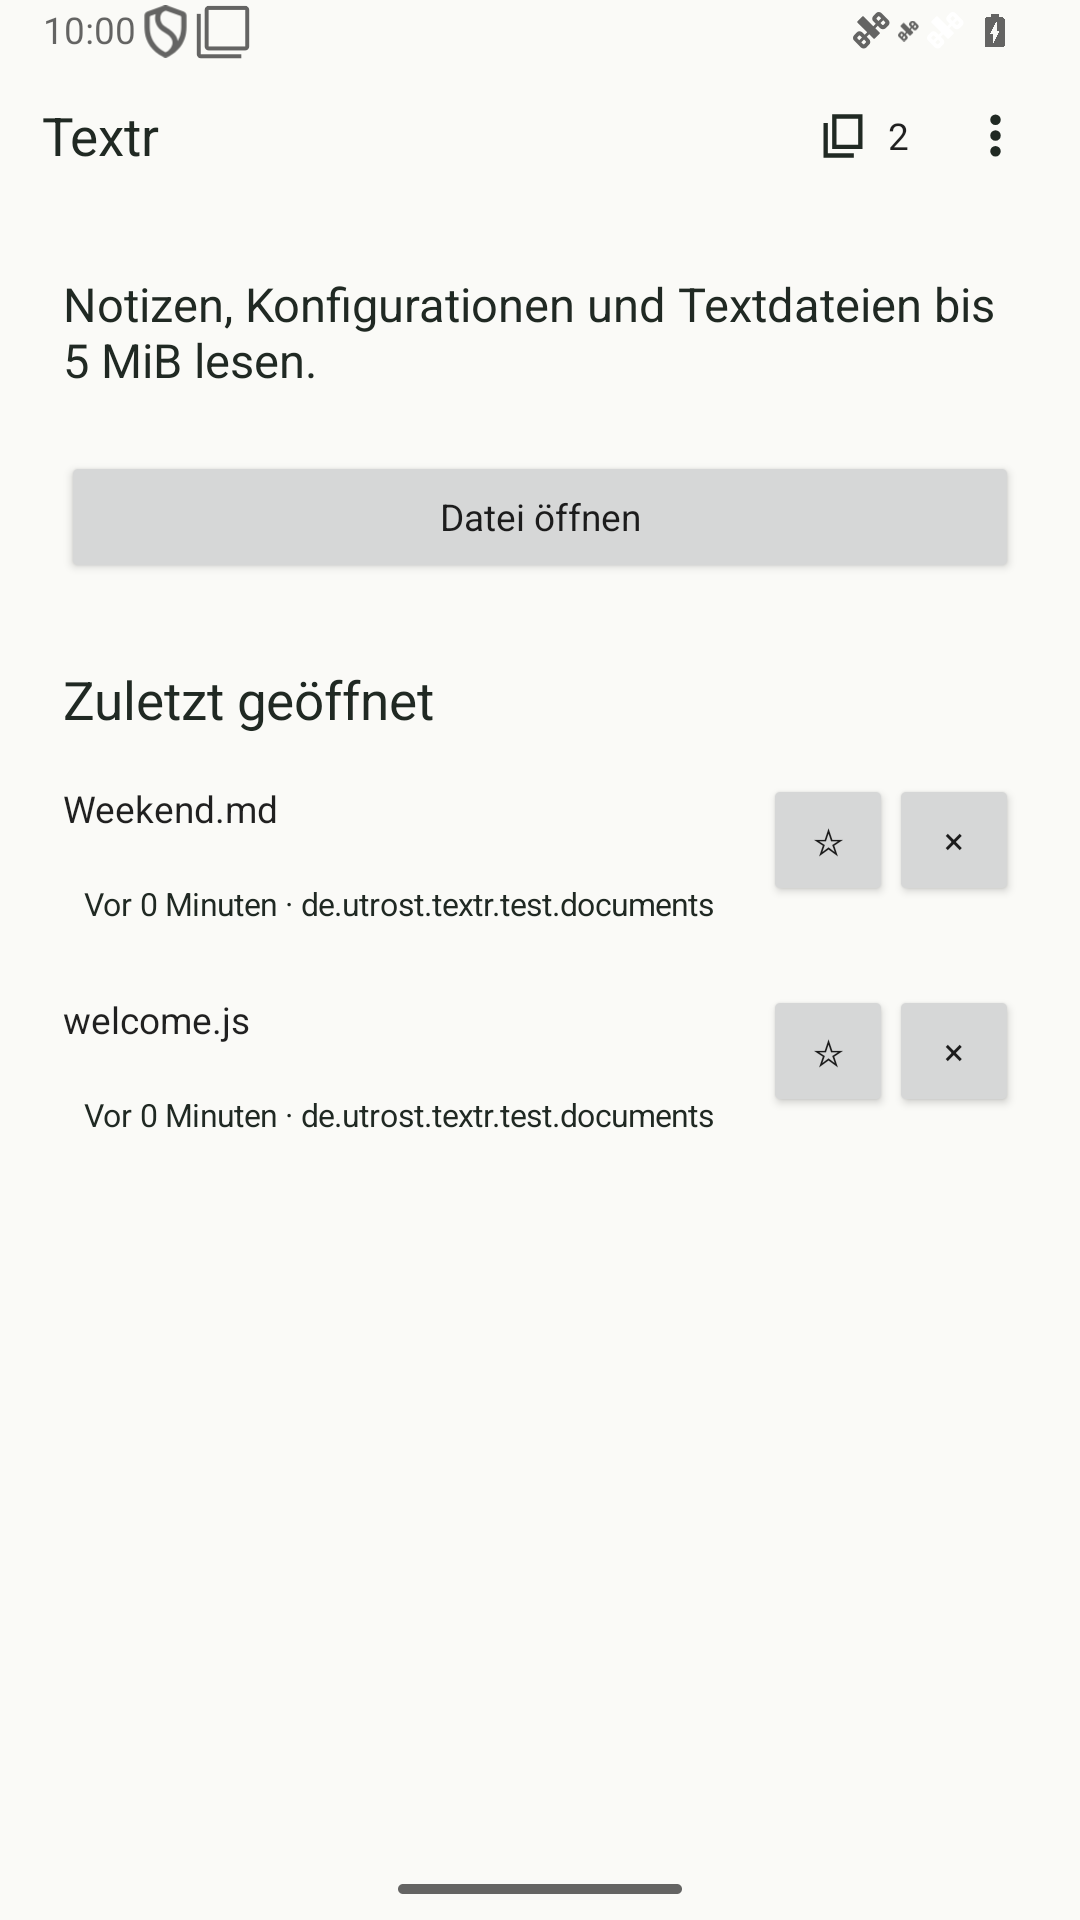
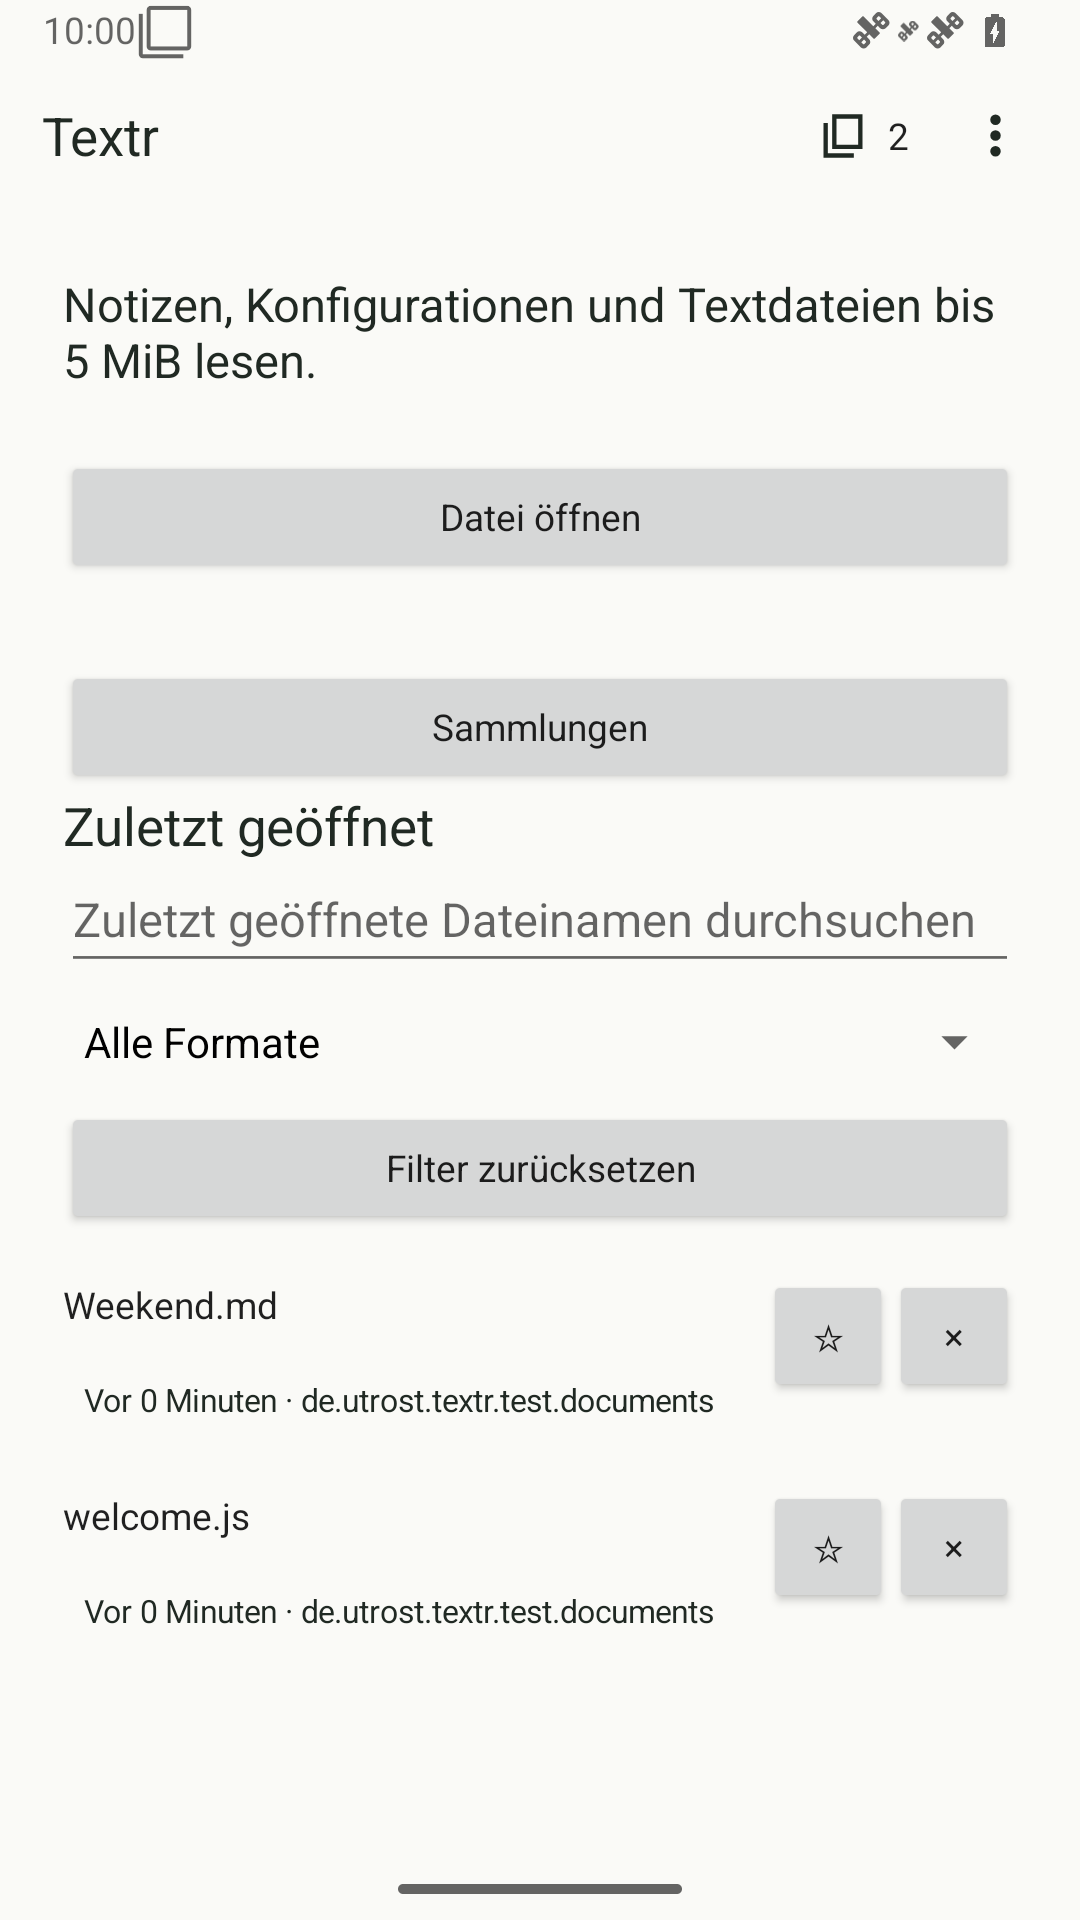
Refresh current English and German screenshots and alpha notes

diff --git a/docs/screenshots.md b/docs/screenshots.md
@@ -1,6 +1,6 @@
 # Screenshots
 
-Baseline set refreshed 20 November 2026 from the 0.2-alpha source (`e4d3ce7`), using its debug build and test fixture provider. Captured on an Android 16/API 36 emulator with WebView 133.0.6943.137, using synthetic documents only. Phone captures use 1080×1920 at 420 dpi; the wide capture uses 1600×1200 at 240 dpi. System font scale is 1.0. These are emulator screenshots, not photographs or physical Magic V6 validation. Pixels are not retouched; Android’s demo clock is used where supported.
+Refreshed 21 November 2026 from the 0.5-alpha app source (`a410407`, application tree unchanged from `d9a3e42`), using its debug build and test fixture provider. Captured on an Android 16/API 36 emulator with WebView 133.0.6943.137, using synthetic documents only. Phone captures use 1080×1920 at 420 dpi; the wide capture uses 1600×1200 at 240 dpi. System font scale is 1.0. These are emulator screenshots, not photographs or physical Magic V6 validation. Pixels are not retouched; Android’s demo clock is used where supported.
 
 | Home | Markdown | Source |
 | --- | --- | --- |
@@ -33,7 +33,7 @@ python3 scripts/capture-screenshots.py --serial EMULATOR_SERIAL --reset-app-data
 
 The explicit flag acknowledges that the script clears **Textr’s emulator app data**, sets demo display/language/theme state and installs synthetic reading preferences. It requires no release signing key and publishes nothing. Do not run it on a personal device or concurrently with instrumentation. The script restores default display size/density, app-language selection and font scale, but leaves development preferences and animations configured for capture; use a disposable emulator.
 
-The older images elsewhere in this directory remain historical documentation of earlier iterations. The `reading-*` images above are the current 0.2-alpha documentation set, including HTML reading, JSON navigation, copy editing and wide comparison. [Store artwork](store/) derives from the existing vector launcher icon and includes editable SVG sources.
+The older images elsewhere in this directory remain historical documentation of earlier iterations. The `reading-*` images above are the current 0.5-alpha documentation set, including HTML reading, JSON navigation, copy editing and wide comparison. [Store artwork](store/) derives from the existing vector launcher icon and includes editable SVG sources.
 
 ## Roadmap completion captures
 
@@ -43,7 +43,7 @@ Captured 21 November 2026 from the 0.5-alpha implementation branch on the dispos
 | --- | --- | --- |
 | ![Named collection with separate reference actions and visible Done](images/roadmap-collections.png) | ![Every JSONL line, including blank and invalid records](images/roadmap-json-lines.png) | ![Dark Markdown tasks with checked and unchecked text labels at 200%](images/roadmap-tasks-dark-large.png) |
 
-Reproduce with `RoadmapCompletionDeviceTest` on a disposable emulator. It writes `roadmap-*.png` to the target app cache using UiDevice screenshots; extract with `adb exec-out run-as de.utrost.textr cat cache/NAME.png > NAME.png`. Do not run concurrently with other instrumentation. The existing comparison image above remains the earlier side-by-side mode; the current filter/export controls are shown below.
+Reproduce with `RoadmapCompletionDeviceTest` on a disposable emulator. It writes `roadmap-*.png` to the target app cache using UiDevice screenshots; extract with `adb exec-out run-as de.utrost.textr cat cache/NAME.png > NAME.png`. Do not run concurrently with other instrumentation. The comparison image above shows the current side-by-side mode; unified filter/export controls are shown below.
 
 ![Exact comparison with independent display filters and explicit patch export](images/roadmap-comparison.png)
 

diff --git a/docs/validation-roadmap-completion.md b/docs/validation-roadmap-completion.md
@@ -15,7 +15,7 @@ Work dated 21 November 2026 on `feat/roadmap-completion`, based on merged QoL ma
 
 Disposable API 29 (`emulator-5560`) and API 36 (`emulator-5562`) emulators use synthetic documents/providers only. Heap setup follows the existing CI preparation script. The first 14 new device cases passed on both; the added original-encoding recovery case also passed. A further 200% keyboard assertion was corrected to inject an actual Android keyboard event rather than dispatching an event while remaining in touch mode; the corrected case passes on both APIs.
 
-The full API 36 suite passes **159/159** in 837.602 seconds. The full API 29 suite also passes **159/159** in 1,002.211 seconds. Added rename/reselection, 200% editor and full-visible comparison-action checks are being run against the latest build; the final suite has 160 cases. All **16 focused roadmap cases** pass on the latest API 36 build in 30.848 seconds, including these additions. Hosted checks remain linked from PR #127. No assertions were skipped or disabled.
+The full API 36 suite passes **159/159** in 837.602 seconds; API 29 passes **159/159** in 1,002.211 seconds. The expanded **16-case roadmap suite** then passes on the latest build on both APIs (API 36: 30.848 seconds; API 29: 27.710 seconds), adding rename/reselection, 200% editor actions and full-visible comparison controls. The final hosted suite has **160 cases per API**; exact-source checks are linked from PR #127. No assertions were skipped or disabled.
 
 New coverage includes editor line actions/keyboard/recreation, captured original despite provider changes, legacy recovery without baseline, encoding/BOM fidelity, draft comparison process loss, filtered-view exact patch export, cancellation/input URI protection, collection limits/persistence/grant ownership/recreation and 200% keyboard reachability, JSONL native invalid/blank navigation, saved-copy recreation and read-denied output recovery, dark/200% task semantics.
 
@@ -47,3 +47,7 @@ Dependency review: runtime dependencies are unchanged by this batch: AndroidX/Ko
 The first signed-artifact verifier run correctly refused AndroidX’s generated `DYNAMIC_RECEIVER_NOT_EXPORTED_PERMISSION`, which its initial allowlist omitted. The verifier now requires exactly that permission and Textr’s `FIND_SELECTION`, and checks that **both retain signature protection** in the compiled manifest. Signed and unsigned APK checks pass with the corrected expected manifest. No Android permission declaration was changed to satisfy verification.
 
 The first hosted build job passed compilation/unit/lint and the initial script checks, then stopped because the runner lacks `rg` in the new credential-guard step. That step now uses Python’s standard library, already required by the same job. This is a CI dependency correction; the credential refusal remains required. The failed run is retained at https://github.com/utrost/Textr/actions/runs/44950000305 .
+
+Current screenshot refresh: all 11 primary `reading-*` images were recaptured from the latest app with the committed capture script on the disposable API 36 emulator, including English/German home, German settings, editor and comparison. Inherited Fastlane home/settings screenshots were replaced with these current pixels; no screenshots were retouched. Additional collection/JSONL/task/filter screenshots come from the latest focused device cases. Both locale metadata sets pass validation.
+
+The local WebView providers are **74.0.3729.185 on API 29** and **133.0.6943.137 on API 36**, confirmed with `dumpsys webviewupdate`. Passing these suites does not represent a current-stable WebView survey or close #59.

diff --git a/docs/release-notes-0.5-alpha.md b/docs/release-notes-0.5-alpha.md
@@ -1,0 +1,26 @@
+# Textr 0.5-alpha — private testing candidate
+
+Version code **5**, Android 10/API 29 and newer, target API 36. This candidate completes the ten remaining feature/automation implementations. Private draft assets require repository write access. Public APK/store publication and production signing remain deferred; older versions stay immutable.
+
+## New behavior
+
+- Editor Go to line, selected-line indentation/unindentation and keyboard shortcuts, plus reliable **Open saved copy** after successful Save as.
+- Review the unsaved draft against its initial original snapshot. Display-only spaces/tabs and line-ending comparison filters remain separate from exact patch export.
+- Save a bounded standard UTF-8 unified diff through the system picker, with anonymous headers and explicit confirmation when filters hide differences.
+- Organize references in named collections, independently of recent history. Limits: 20 collections, 30 references each, 200 memberships total; no document contents are stored in collections.
+- Navigate JSONL/NDJSON records, including invalid and blank lines; read highlighted AsciiDoc/rST source; view checked/unchecked Markdown tasks as read-only content.
+- Prepare private drafts from an explicit tested commit with matching source, version, signature, manifest, checksums and downloaded-byte verification.
+
+Includes all eight QoL improvements from 0.4-alpha. Native controls and generated labels are English/German. See [usage and limits](roadmap.md), [validation](validation-roadmap-completion.md) and [current release assets](https://github.com/utrost/Textr/releases).
+
+## Installation and privacy
+
+A candidate signed with the same approved development identity can update earlier private alphas in place; verify `SIGNING.txt` and `SHA256SUMS`. A different signing key requires reinstalling and removes local settings, references and recovery. Save needed drafts first. The selected standard F-Droid signing channel will use F-Droid’s separate identity and cannot update these development-signed alphas in place. There is no F-Droid publication yet.
+
+Copy editing still uses one bounded private recovery file; it now also contains the initial original decoded text/encoding/BOM for comparison. Legacy recovery remains editable and clearly disables unavailable original comparison. Collections retain references/read grants independently from recent history. Patch export creates a separate user-selected output. See the [privacy policy](privacy.md); developer **utrost**, privacy/support through [public Textr issues](https://github.com/utrost/Textr/issues).
+
+## Acceptance limits
+
+Original files remain unchanged. No accounts, advertising, analytics or app network permission. JSONL/highlighting/render/editor/diff/output limits remain explicit. Patch application, in-place editing, multiple recovery drafts and direct website fetching are outside this version.
+
+Emulator and automated accessibility checks do not establish human TalkBack speech quality, physical-provider behavior or foldable acceptance (#56). The underlying intermittent WebView virtual-node investigation (#59) remains open despite the native CSV/source fallback. F-Droid eligibility/submission, Play account choices and public publication remain separate.

diff --git a/README.md b/README.md
@@ -4,7 +4,7 @@ Textr is an offline text reader and inspector for Android, with explicit editing
 
 **Android 10+ · Offline · English and German · GPL-3.0-only**
 
-**Private testing:** the current source/candidate is **0.5-alpha (code 5)**, adding editor line actions, original/draft review, comparison filters and exact patch export, collections, JSONL navigation, markup highlighting, read-only Markdown tasks and verified draft-release tools. Earlier private drafts, including 0.4-alpha, remain immutable. See [releases](https://github.com/utrost/Textr/releases) and the [roadmap](docs/roadmap.md); draft APK assets require repository write access.
+**Private testing:** the current source/candidate is **0.5-alpha (code 5)**, adding editor line actions, original/draft review, comparison filters and exact patch export, collections, JSONL navigation, markup highlighting, read-only Markdown tasks and verified draft-release tools. Earlier private drafts, including 0.4-alpha, remain immutable. See [release notes](docs/release-notes-0.5-alpha.md), [releases](https://github.com/utrost/Textr/releases) and the [roadmap](docs/roadmap.md); draft APK assets require repository write access.
 
 **Roadmap completion:** [PR #127](https://github.com/utrost/Textr/pull/127) contains the ten remaining feature/automation implementations, distribution preparation and updated documentation. See [validation](docs/validation-roadmap-completion.md) and the PR checks for exact-source evidence. The earlier eight QoL improvements are merged through [PR #126](https://github.com/utrost/Textr/pull/126). Physical-provider, human TalkBack and foldable acceptance remain open in [#56](https://github.com/utrost/Textr/issues/56), with the underlying [WebView accessibility investigation #59](https://github.com/utrost/Textr/issues/59).
 

diff --git a/docs/editing-copies.md b/docs/editing-copies.md
@@ -30,7 +30,7 @@ Verify edit/undo/redo, selection, dirty navigation, unchanged original bytes, sa
 
 **Go to line** moves only the caret, counts CR/LF/CRLF consistently and validates the requested logical line. A trailing terminator creates an empty last editor line. **Indent** adds two ASCII spaces to each selected line; **Unindent** removes one leading tab or up to two spaces. A selection ending exactly at the next line start excludes that line. Reverse selections, original endings and a single undo step are preserved; edits exceeding the existing budget are refused atomically.
 
-Keyboard shortcuts: Ctrl+Alt+G (Go to line), Ctrl+Alt+] (Indent), Ctrl+Alt+[ (Unindent), Ctrl+Alt+D (Compare original). **Compare original** reviews a captured draft without saving or changing undo history; see [comparison](comparison.md).
+The editor toolbar scrolls horizontally to reach its additional actions. Keyboard shortcuts: Ctrl+Alt+G (Go to line), Ctrl+Alt+] (Indent), Ctrl+Alt+[ (Unindent), Ctrl+Alt+D (Compare original). **Compare original** reviews a captured draft without saving or changing undo history; see [comparison](comparison.md).
 
 After a matching save succeeds, **Open saved copy** opens the destination in the ordinary reader. It survives activity recreation and retains available read permission only after a successful read. A write-only provider can save successfully but refuse opening; the reader then explains access recovery. The original reference is never substituted for the saved destination.
 
